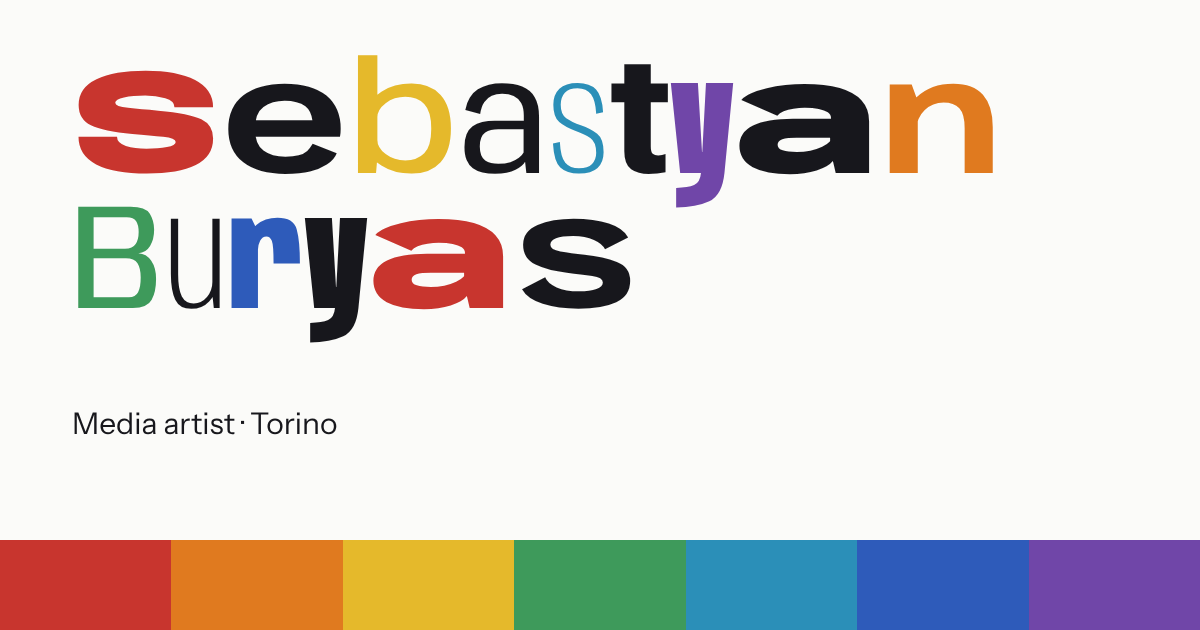
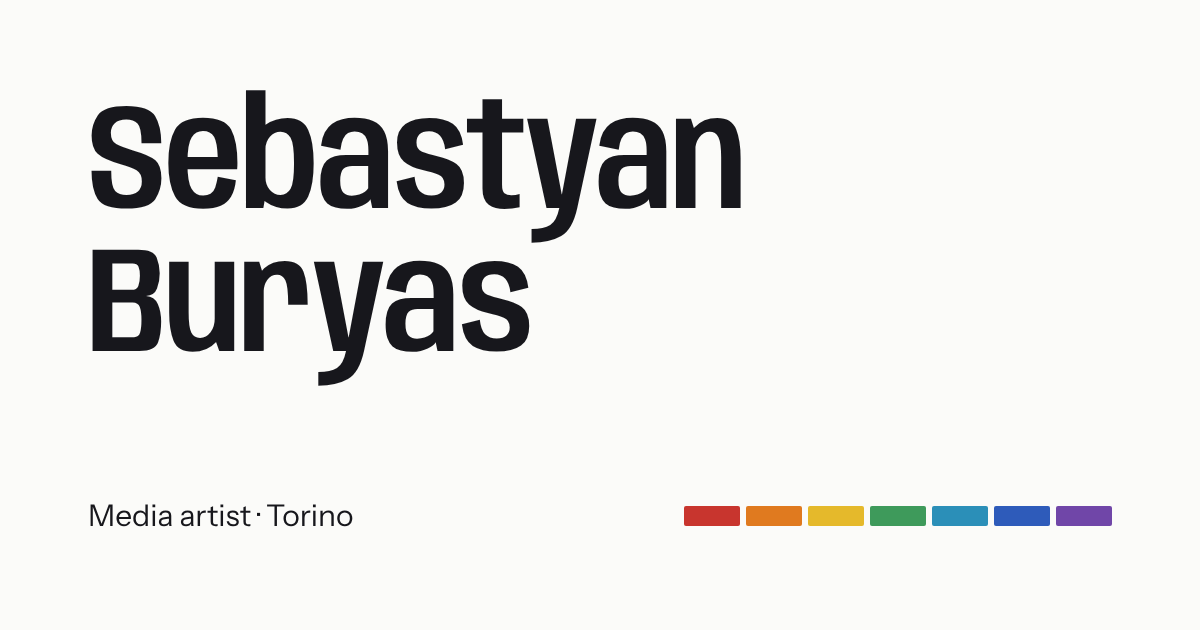
Testata più sobria ed elegante
Claude-Session: https://claude.ai/code/session_013YaCoAcrBVSbZwqQ4bCbxC

diff --git a/style.css b/style.css
@@ -67,41 +67,41 @@ img { max-width: 100%; display: block; }
 .hero { max-width: var(--max); margin: 0 auto; padding: clamp(48px, 10vw, 120px) var(--gutter) 64px; }
 .name {
   font-family: var(--display);
-  font-size: clamp(32px, 9.6vw, 124px); line-height: 0.92; letter-spacing: -0.01em;
+  font-size: clamp(34px, 10vw, 128px); line-height: 0.95; letter-spacing: -0.015em;
   margin: 0 0 32px; white-space: nowrap;
 }
 .name .line { display: block; }
 .name .ch {
   display: inline-block;
-  font-weight: var(--w, 800); font-stretch: var(--s, 75%);
-  transition: font-weight 0.6s cubic-bezier(.2,.7,.2,1), font-stretch 0.6s cubic-bezier(.2,.7,.2,1), color 0.6s;
-  transition-delay: calc(var(--i, 0) * 28ms);
+  font-weight: var(--w, 600); font-stretch: var(--s, 84%);
+  transition: font-weight 0.9s cubic-bezier(.2,.7,.2,1), font-stretch 0.9s cubic-bezier(.2,.7,.2,1);
+  transition-delay: calc(var(--i, 0) * 22ms);
 }
-.name.tinted .ch:nth-child(odd) { color: var(--accent); }
 @media (prefers-reduced-motion: reduce) { .name .ch { transition: none; } }
-.hero-lead { max-width: 34em; font-size: clamp(18px, 2vw, 22px); margin: 0 0 48px; color: var(--ink); }
+.hero-lead { max-width: 34em; font-size: clamp(18px, 2vw, 22px); margin: 0 0 40px; color: var(--ink); }
 
-.bands { display: grid; grid-template-columns: repeat(7, minmax(0, 1fr)); height: clamp(120px, 22vw, 240px); }
+.bands { display: grid; grid-template-columns: repeat(7, minmax(0, 1fr)); gap: 6px; height: 44px; max-width: 560px; }
 .bands button {
   background: var(--c); border: 0; padding: 0; cursor: pointer;
-  transition: flex 0.2s, transform 0.25s ease;
+  transition: transform 0.25s ease;
   transform-origin: bottom;
 }
-.bands button:hover, .bands button[aria-pressed="true"] { transform: scaleY(1.08); }
-.bands button[aria-pressed="true"] { box-shadow: inset 0 -6px 0 var(--ink); }
+.bands button { border-radius: 2px; }
+.bands button:hover { transform: translateY(-3px); }
+.bands button[aria-pressed="true"] { transform: translateY(-3px); box-shadow: 0 6px 0 -3px var(--ink); }
 @media (prefers-reduced-motion: reduce) { .bands button { transition: none; } }
 
-.readout { margin: 20px 0 0; min-height: 3.2em; max-width: 46em; color: var(--grey); }
+.readout { font-size: 15px; margin: 16px 0 0; min-height: 3.2em; max-width: 46em; color: var(--grey); }
 .readout-hex { font-family: var(--display); font-weight: 700; color: var(--accent); margin-right: 8px; }
 
 /* Sections */
 .section { max-width: var(--max); margin: 0 auto; padding: 72px var(--gutter); border-top: 1px solid var(--rule); }
 .section h2 {
-  font-family: var(--display); font-weight: 800; font-stretch: 120%;
+  font-family: var(--display); font-weight: 560; font-stretch: 100%;
   font-size: clamp(36px, 5vw, 56px); line-height: 1; letter-spacing: -0.03em;
   margin: 0 0 40px;
 }
-h3 { font-family: var(--display); font-weight: 700; font-stretch: 90%; font-size: 26px; line-height: 1.15; letter-spacing: -0.01em; margin: 16px 0 4px; }
+h3 { font-family: var(--display); font-weight: 600; font-stretch: 92%; font-size: 26px; line-height: 1.15; letter-spacing: -0.01em; margin: 16px 0 4px; }
 .sub { margin: 64px 0 20px; }
 .meta { color: var(--grey); margin: 0 0 12px; font-size: 15px; }
 .tags { color: var(--grey); font-size: 15px; }
@@ -111,18 +111,18 @@ h3 { font-family: var(--display); font-weight: 700; font-stretch: 90%; font-size
 .links a { font-weight: 500; }
 
 /* Placeholder figure: shows the colour block until the image file exists */
-.ph { position: relative; margin: 0; background: var(--c); aspect-ratio: 4 / 3; overflow: hidden; }
+.ph { position: relative; margin: 0; background: color-mix(in srgb, var(--c) 14%, var(--paper)); aspect-ratio: 4 / 3; overflow: hidden; }
 .ph img { position: absolute; inset: 0; width: 100%; height: 100%; object-fit: cover; }
 .ph figcaption {
   position: absolute; left: 12px; bottom: 10px;
-  font-size: 13px; color: #fff; background: rgba(0,0,0,0.45); padding: 2px 8px;
+  font-size: 13px; color: var(--grey); padding: 2px 0;
 }
 .ph img + figcaption { display: none; }
 
 /* CHROMA feature */
 .feature { display: grid; grid-template-columns: minmax(0, 7fr) minmax(0, 5fr); gap: clamp(24px, 4vw, 56px); align-items: start; }
 .feature .ph { aspect-ratio: 16 / 11; }
-.feature h3 { font-size: clamp(40px, 5vw, 64px); font-weight: 900; font-stretch: 150%; letter-spacing: -0.01em; margin-top: 0; }
+.feature h3 { font-size: clamp(40px, 5vw, 64px); font-weight: 650; font-stretch: 112%; letter-spacing: 0.01em; margin-top: 0; }
 .feature-text p { max-width: 36em; }
 
 .pair { display: grid; grid-template-columns: repeat(2, minmax(0, 1fr)); gap: clamp(24px, 4vw, 48px); margin-top: 72px; }
@@ -130,7 +130,7 @@ h3 { font-family: var(--display); font-weight: 700; font-stretch: 90%; font-size
 
 .posters { display: grid; grid-template-columns: repeat(3, minmax(0, 1fr)); gap: 20px; }
 .poster { aspect-ratio: 3 / 4; }
-.poster-cap { position: absolute; left: 12px; top: 10px; margin: 0; font-family: var(--display); font-weight: 700; color: #fff; text-shadow: 0 1px 6px rgba(0,0,0,0.5); }
+.poster-cap { position: absolute; left: 12px; top: 10px; margin: 0; font-family: var(--display); font-weight: 600; color: var(--ink); }
 .poster img ~ .poster-cap { display: none; }
 
 .photos { display: grid; grid-template-columns: repeat(3, minmax(0, 1fr)); gap: 8px; }
@@ -147,7 +147,7 @@ h3 { font-family: var(--display); font-weight: 700; font-stretch: 90%; font-size
 /* Contact */
 .contact-lead { font-size: 20px; max-width: 30em; margin: -16px 0 24px; }
 .contact-mail {
-  font-family: var(--display); font-weight: 700;
+  font-family: var(--display); font-weight: 500;
   font-size: clamp(24px, 5vw, 56px); letter-spacing: -0.02em; word-break: break-word;
 }
 

diff --git a/script.js b/script.js
@@ -40,13 +40,13 @@
 
   // Each colour gives the name a different shape: width and weight of the variable font
   var shapes = {
-    '#C8352E': { s: 138, w: 860 },
-    '#E07A1F': { s: 124, w: 700 },
-    '#E5B92B': { s: 115, w: 500 },
-    '#3E9A5B': { s: 100, w: 400 },
-    '#2B8FB8': { s: 85, w: 250 },
-    '#2E5BBA': { s: 75, w: 800 },
-    '#7046A8': { s: 52, w: 900 }
+    '#C8352E': { s: 125, w: 760 },
+    '#E07A1F': { s: 115, w: 640 },
+    '#E5B92B': { s: 106, w: 520 },
+    '#3E9A5B': { s: 100, w: 440 },
+    '#2B8FB8': { s: 92, w: 360 },
+    '#2E5BBA': { s: 84, w: 600 },
+    '#7046A8': { s: 76, w: 700 }
   };
 
   var nameEl = document.getElementById('name');
@@ -76,23 +76,6 @@
     letters.forEach(function (l) {
       l.style.removeProperty('--s');
       l.style.removeProperty('--w');
-    });
-    nameEl.classList.add('tinted');
-  }
-
-  // Small extra: on a pointer device the letters swell under the cursor
-  if (nameEl && window.matchMedia('(hover: hover) and (prefers-reduced-motion: no-preference)').matches) {
-    nameEl.addEventListener('pointermove', function (e) {
-      letters.forEach(function (l) {
-        var r = l.getBoundingClientRect();
-        var d = Math.abs(e.clientX - (r.left + r.width / 2)) + Math.abs(e.clientY - (r.top + r.height / 2)) * 0.6;
-        var f = Math.max(0, 1 - d / 220);
-        if (f > 0) l.style.setProperty('--w', Math.round(300 + 600 * f));
-        else l.style.removeProperty('--w');
-      });
-    });
-    nameEl.addEventListener('pointerleave', function () {
-      letters.forEach(function (l) { l.style.removeProperty('--w'); });
     });
   }
 

diff --git a/index.html b/index.html
@@ -15,7 +15,7 @@
 <meta property="og:image:height" content="630">
 <meta name="twitter:card" content="summary_large_image">
 <link rel="preload" href="fonts/anybody.woff2" as="font" type="font/woff2" crossorigin>
-<link rel="stylesheet" href="style.css?v=3">
+<link rel="stylesheet" href="style.css?v=4">
 </head>
 <body>
 <a class="skip" href="#progetti" data-en="Skip to projects">Vai ai progetti</a>
@@ -170,6 +170,6 @@
   <p>© 2026 Sebastyan Buryas</p>
 </footer>
 
-<script src="script.js?v=3"></script>
+<script src="script.js?v=4"></script>
 </body>
 </html>
